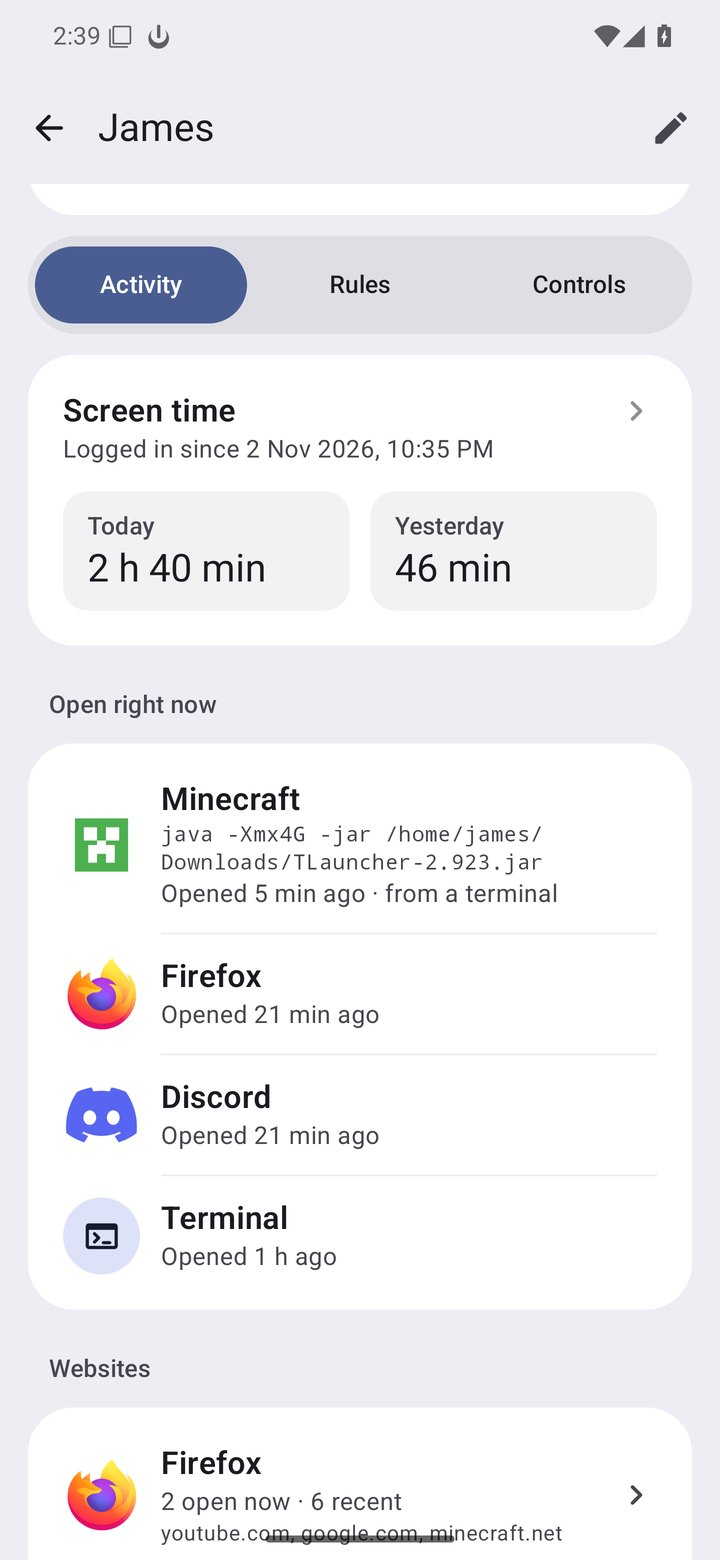
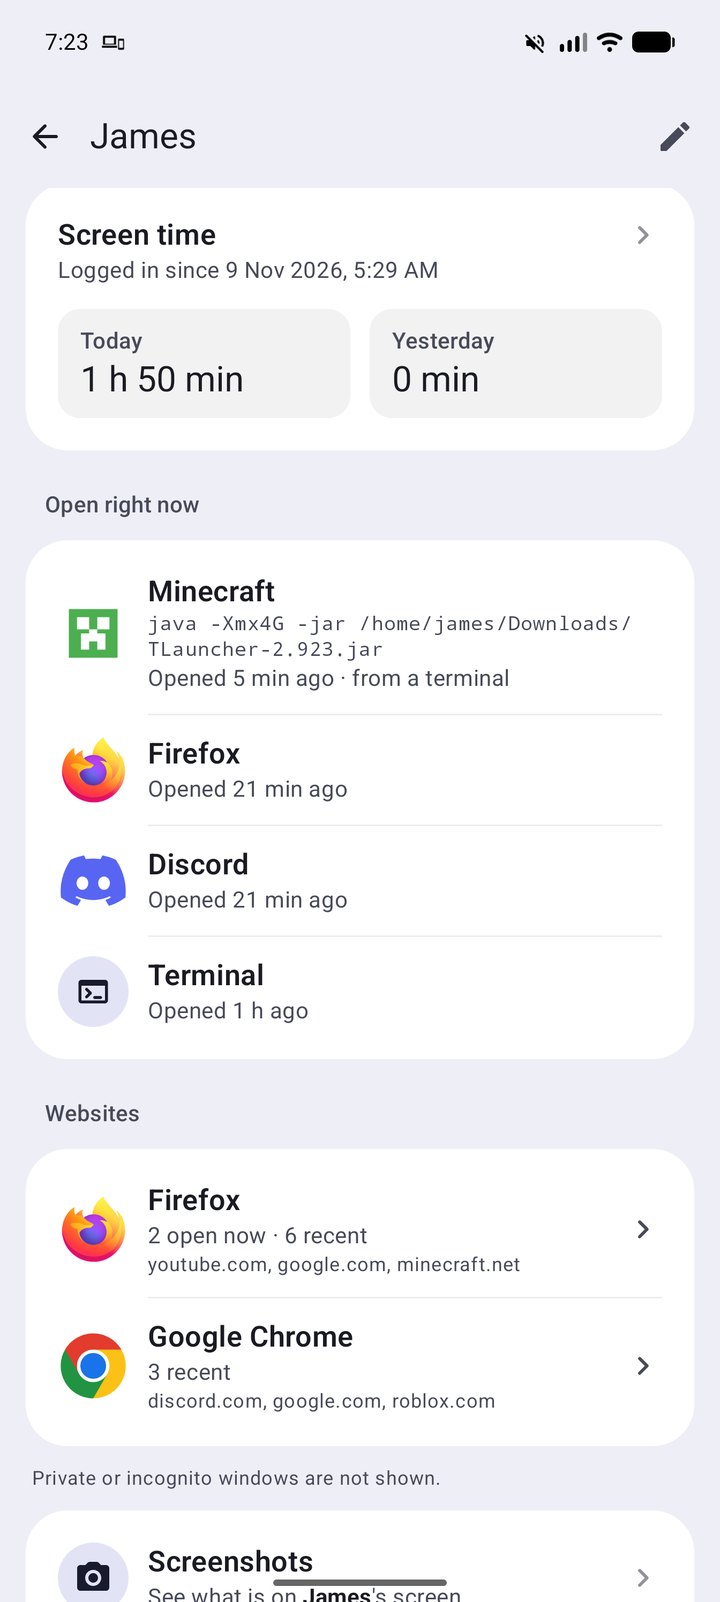
README and guide for 1.4.0: filters, safe from the start, works while a computer is off, apps and week chart, passwords

diff --git a/docs/GUIDE.md b/docs/GUIDE.md
@@ -13,7 +13,7 @@ The timers are silent unless you turn on **Warn them first**, which shows a noti
 
 ### Logging someone in from the phone
 
-Open the account in the app and tap **Log in without the password**; the phone asks for your fingerprint. Then, on the laptop, they click their name at the login screen and are let in (if it is already asking for the password, they press Enter). The approval works once and only for two minutes. If the account is already logged in and locked, its screen simply unlocks.
+Open the account in the app and tap **Log in without the password**; the phone asks for your fingerprint. On Ubuntu (GNOME 45 or newer) the login screen then opens that account by itself, even if someone else's name was chosen there: nobody needs to touch the computer. On other systems they click their name at the login screen and are let in (if it is already asking for the password, they press Enter). The approval works once and only for two minutes. If the account is already logged in and locked, its screen simply unlocks.
 
 Nothing is stored on the phone and no password travels over the network.
 
@@ -31,7 +31,7 @@ On an account's page, under **Websites**, you see each browser the person has us
 
 This reads the browser's own history on the laptop, so it works even when the person is not logged in at that moment, as long as the laptop is on and at home. Clearing the browser history clears it here too.
 
-What it cannot show: **private or incognito windows**. Browsers write nothing to disk for those, so there is nothing to read; switch them off with **Block private windows** (below). Curfew keeps its own copy of a child's history for 7 days, so clearing the history in the browser does not hide it from the phone. Open tabs are read exactly for Firefox; for Chrome they are shown as "the last few minutes", because Chrome does not let anything read its open tabs. Other browsers (Brave, Edge, Tor) are not read.
+What it cannot show: **private or incognito windows**. Browsers write nothing to disk for those, so there is nothing to read; switch them off with **Block private windows** (below). Curfew keeps its own copy of a child's history for 7 days, so clearing the history in the browser does not hide it from the phone. Open tabs are read exactly for Firefox and for the Chrome family (Chrome, Chromium, Brave, Edge, Vivaldi, Opera): a new tab or search shows on your phone within a few seconds while you are at home. Zen, LibreWolf, Floorp and Waterfox are read like Firefox. The Tor Browser is not read.
 
 The list travels over the home Wi-Fi signed but **not encrypted**, the same as everything else Curfew sends, so treat it as private to the home network.
 
@@ -39,11 +39,13 @@ The list travels over the home Wi-Fi signed but **not encrypted**, the same as e
 
 ### Screen time
 
-On a laptop's page, **Screen time** shows every account: how long it was used today, how long yesterday, how long since the laptop was turned on, and each login with its date and time ("2 Oct 2026, 8:55 PM") and when it logged out. The same box is on each account's own page. Logging out and back in adds to the same day's total; the day starts again at midnight, and only today and yesterday are kept.
+On a computer's page, **Screen time** shows the children's accounts (an administrator's time is only on that account's own page). At the top, **This week** compares the children; tap one to see their week as a bar chart, their average a day, their daily limit as a red line, and each login with its date and time ("2 Oct 2026, 8:55 PM") and when it logged out. Tap a bar to see that day. Logging out and back in adds to the same day's total; the day starts again at midnight, and 7 days are kept.
+
+On a child's page, **Apps** lists every app on that account with its time today and this week, most used first. Press and hold an app to block it, or to allow it again. At the top, one switch each blocks **Minecraft** (from any launcher, TLauncher too), **Discord**, **Roblox** and **Steam**.
 
 Time counts while the account is on the screen and unlocked. A locked screen does not count, and neither does an account that was left logged in while someone else used the laptop after "Switch user". The laptop only counts while Curfew is installed, so the first day starts from the moment you install this version.
 
-The phone keeps a copy of the last screen time it saw. When a laptop is shut down or away from home, its page still has **Screen time**, showing that copy and when it was saved ("Last seen 8:55 PM"). As soon as the laptop is back, the numbers are up to date again: the laptop keeps counting even when it has no internet, and the phone picks it all up next time.
+The phone keeps a copy of the last screen time it saw. When a laptop is shut down or away from home, its page still has **Screen time**, showing that copy and when it was saved ("Last seen 8:55 PM"). See also "When a computer is off" below. As soon as the laptop is back, the numbers are up to date again: the laptop keeps counting even when it has no internet, and the phone picks it all up next time.
 
 ### Notifications
 
@@ -57,7 +59,7 @@ This works with the app closed too: Curfew stays in touch with the laptops and t
 
 The **bell** at the top of the home screen keeps every notification of the last 30 days, also the ones you swiped away or missed, with a number for the new ones. Tap one to go to that account. **Clear all** empties the list. Below the list you choose what you want to be told about.
 
-Only what is happening now pops up on your phone. What happened while your phone could not reach the laptop (for example, the phone was off or the laptop had no Wi-Fi) goes quietly into the bell's list, with the time it happened. A notification you swipe away does not come back; it stays in the list. When a laptop shuts down, restarts or goes to sleep, the app shows that at once ("Shut down", "Asleep").
+If your phone was away from home, or the laptop had no Wi-Fi, you are told when both are home again; the notification shows when it happened, not when you were told. When a laptop shuts down, restarts or goes to sleep, the app shows that at once ("Shut down", "Asleep").
 
 ### Screenshots
 
@@ -65,7 +67,7 @@ On a child's page, **Screenshots** takes a picture of their screen when you ask,
 
 Your child is not told and sees nothing when one is taken. These are only pictures Curfew takes; Curfew never reads screenshots your child takes.
 
-Tap a screenshot to see it large. Turn your phone sideways to see it wider (with auto-rotate on), or tap the turn button at the top.
+The newest are at the top. Tap one to open it, then swipe from right to left for older ones and back for newer ones, as in your phone's gallery; pinch or double-tap to zoom.
 
 Screenshots stay on the computer for 7 days. Your phone keeps a copy too, encrypted and never in your photos, so you can still look at them while the computer is off. **How much to keep** in the app's Settings chooses the size on the phone (Off, 100 MB, 300 MB or 1 GB); the oldest are removed first.
 
@@ -90,6 +92,26 @@ On an account's page, **Bedtime** sets the hours each night that account may not
 On an account's page, **Blocked apps** lists apps that child may not open, such as Minecraft or a game launcher. Choose from the apps seen on that account or common ones, or type a name. If they open one, it closes within a few seconds and you get a notification (at most once a minute per app). They see why only if **Show notices on the screen** is on for that account. This works with your phone away and after a restart. Admin accounts cannot be limited, and the same app stays usable on your own account.
 
 It goes by the program's name. **If someone renames a program or copies it under another name, it gets past this.** It never closes Windows, the desktop or Curfew, and it closes a browser only if you choose that browser; to keep one site away use blocked websites. The app ends suddenly, so anything not saved in it is lost. Checking every 3 seconds uses too little of the computer to notice.
+
+### Filters
+
+On a child's **Rules** tab:
+
+- **Adult filter**: adult websites do not open, and Google, YouTube and Bing show only safe results. It works in Firefox and the Chrome family. New children get it on by themselves.
+- **Block AI sites**: ChatGPT, Gemini, Claude, DeepSeek, Copilot, Perplexity, homework-answer sites and about 90 more. Choose **All the time** or **School hours** (Monday to Friday, 8 am to 3 pm). To block another site, add it under blocked websites.
+- **Bad searches**: you get a notification when a child searches for something bad, also when it is spelled in a tricky way ("p0rn", "p o r n"), and a screenshot is taken at that moment if screenshots are on for them. This is always on.
+
+### Safe from the start
+
+When you pair your phone with a computer, every child account on it gets **Only installed programs**, the **Adult filter** and **Only with my approval** turned on by themselves; so does a child account made later. Turn any of them off on that child's Rules tab if you want. A computer that already had your phone before this version keeps its settings as they were.
+
+### When a computer is off
+
+Open a computer that is shut down or away from home: its children are still listed, with what it last told your phone, its screen time, apps, websites and recent screenshots. You can change its rules: block an app, set a limit or a bedtime, turn the filters on or off. The page says how many changes are waiting. The computer makes them the moment it comes on, even if your phone is not at home then, and nothing is ever done twice. Things that only make sense right now (shut down, lock, log in) need the computer on.
+
+### Passwords
+
+On a child's (or an administrator's) **Controls** tab, **Show password** shows that account's password after your fingerprint, and hides it again after 30 seconds. The computer knows a password once it was typed at the login screen (Ubuntu), or in **Set account passwords** (Windows). You can also type one in the app: the computer checks it before keeping it. On Windows that is also what lets the phone log the account in, administrators included.
 
 ### Open hours
 

diff --git a/README.md b/README.md
@@ -10,11 +10,16 @@
 
 | | |
 |---|---|
-| **See what is happening** | Whether each computer is on, who is using it, which apps are open with their logos, which websites they visited and what they searched for. Screenshots of a child's screen, when you ask or every few minutes |
-| **Set the rules** | Daily screen-time limits, bedtimes, open hours, blocked apps and websites, no private windows, only installed programs |
+| **See what is happening** | Whether each computer is on, who is using it, which apps are open with their logos, which websites are open and what they searched for, within seconds. Screenshots of a child's screen, when you ask or every few minutes, to swipe through like your phone's gallery |
+| **Screen time** | A week of each child's time as a bar chart, and every app with its time today and this week, most used first |
+| **Set the rules** | Daily screen-time limits, bedtimes, open hours, blocked apps (press and hold any app, or one switch for Minecraft from any launcher, Discord, Roblox or Steam) and websites, no private windows, only installed programs |
+| **Filters** | An adult filter (family-safe internet and strict safe search) and an AI filter for ChatGPT, Gemini, DeepSeek and about 90 more, all the time or only in school hours |
+| **Safe from the start** | A new child account gets only installed programs, the adult filter and "only with my approval" without you doing anything. Turn any of them off on the phone |
+| **Even when it is off** | Open a computer that is shut down: see its last screen time, apps, websites and screenshots, and change its rules. It gets the changes the moment it comes on, even if your phone is not at home |
 | **Act right now** | Shut down or restart, now or on a timer. Lock the screen, log out, or turn the internet off for one account |
-| **Log in without the password** | Let your child in from your phone, or make an account open only when you allow it |
-| **Get told** | A notification when someone logs in, when a blocked app is opened, or when someone tries to cut the network |
+| **Log in without the password** | Let your child in from your phone: on Ubuntu the login screen opens their account by itself. Or make an account open only when you allow it |
+| **Forgot a password?** | See any account's password on your phone, behind your fingerprint |
+| **Get told** | A notification when someone logs in, opens a blocked app, searches for something bad (also when spelled in tricky ways, with a screenshot), or tries to cut the network |
 
 <p align="center">
   <img src="docs/screens/home.jpg" width="190" alt="Home screen">
